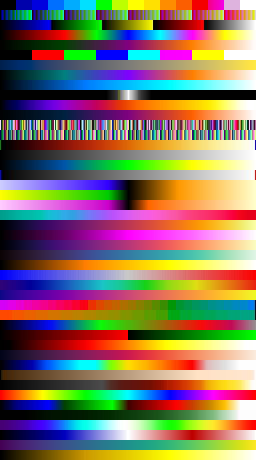
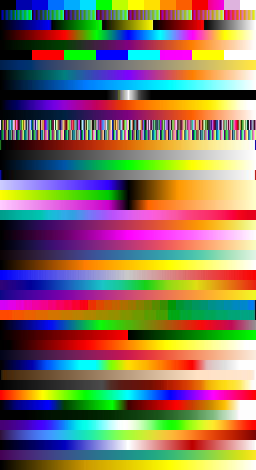
turbo LUT from Anton Mikhailov

diff --git a/src/css/figure.css b/src/css/figure.css
@@ -1031,7 +1031,7 @@
 
     .lutBg {
         /* NB: when updating png, consider using different name to avoid cache */
-        background-size: 100% 2300px;  /* height is stretched 5x (50px per LUT) */
+        background-size: 100% 2350px;  /* height is stretched 5x (50px per LUT) */
         background-repeat: no-repeat;
     }
 
@@ -1042,7 +1042,7 @@
         height: 100%;
         z-index: -1;
         background-image: var(--lutPng);   /* each lut is 10px high */
-        background-size: 100% 2300px;  /* height is stretched 5x (50px per LUT) */
+        background-size: 100% 2350px;  /* height is stretched 5x (50px per LUT) */
         background-repeat: no-repeat;
         transform: scaleX(var(--scaleX));
         background-position: var(--bgPos);

diff --git a/src/js/views/lutpicker.js b/src/js/views/lutpicker.js
@@ -79,6 +79,7 @@ var LutPickerView = Backbone.View.extend({
                 "thal.lut",
                 "thallium.lut",
                 "thermal.lut",
+                "turbo.lut",
                 "unionjack.lut",
                 "viridis.lut",
                 "yellow_hot.lut"],
